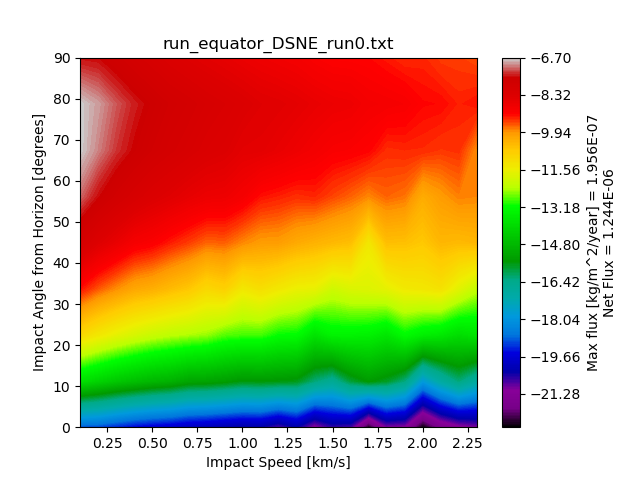
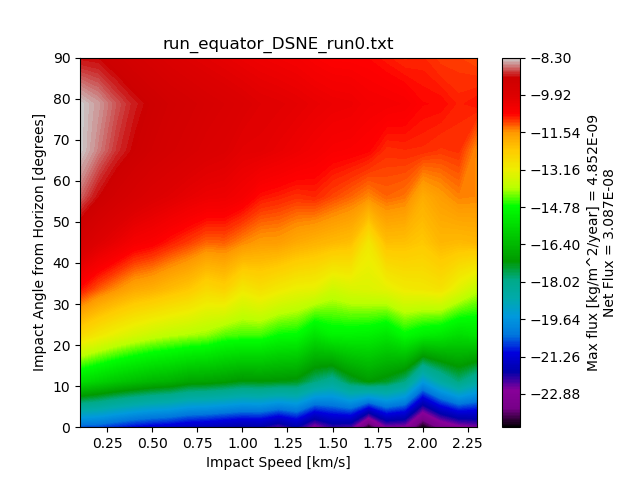
Update

diff --git a/LunarEjectaCode/readMEMIgloodata2.py b/LunarEjectaCode/readMEMIgloodata2.py
@@ -8,7 +8,7 @@ from matplotlib import ticker, cm
 
 N_phi   = 18#36
 N_theta = 0# defined later
-N_v     = 12#13 #40
+N_v     = 23#13 #40
 N_lat   = 37
 
 d_phi   = 10#5
@@ -33,8 +33,8 @@ lat_min   = -90
 #figfilename = preDirectory + densityDirectory + str(ilat).zfill(3) + '_lat' + str(lat) + '.png'
 #filename = preDirectory + '/lat' + str(lat) + '/' + densityDirectory + '/igloo_avg.txt'
 
-filename = "run_pole_DSNE_run3.txt"  # run_lat45_Case0 run_equator_Case0 run_polar_Case0
-figfilename = "run_pole_DSNE_run3.png"
+filename = "run_equator_DSNE_run0.txt"  # run_lat45_Case0 run_equator_Case0 run_polar_Case0
+figfilename = "run_equator_DSNE_run0.png"
 
 #data = np.loadtxt('RunData/SouthPole/HiDensity/flux_avg.txt', unpack=True) # Equator South45 SouthPole
 data = np.loadtxt(filename, unpack=True, skiprows = 214) #834
@@ -59,7 +59,7 @@ while i < Ndata:
 
 	#dataSum[dataSum > 0.] = np.log10(dataSum[dataSum > 0.])
 
-	data2d[j] = data2d[j] + dataSum
+	data2d[j] = data2d[j] + dataSum*4/161.272
 
 	j = j + 1
 	i = i + N_theta
